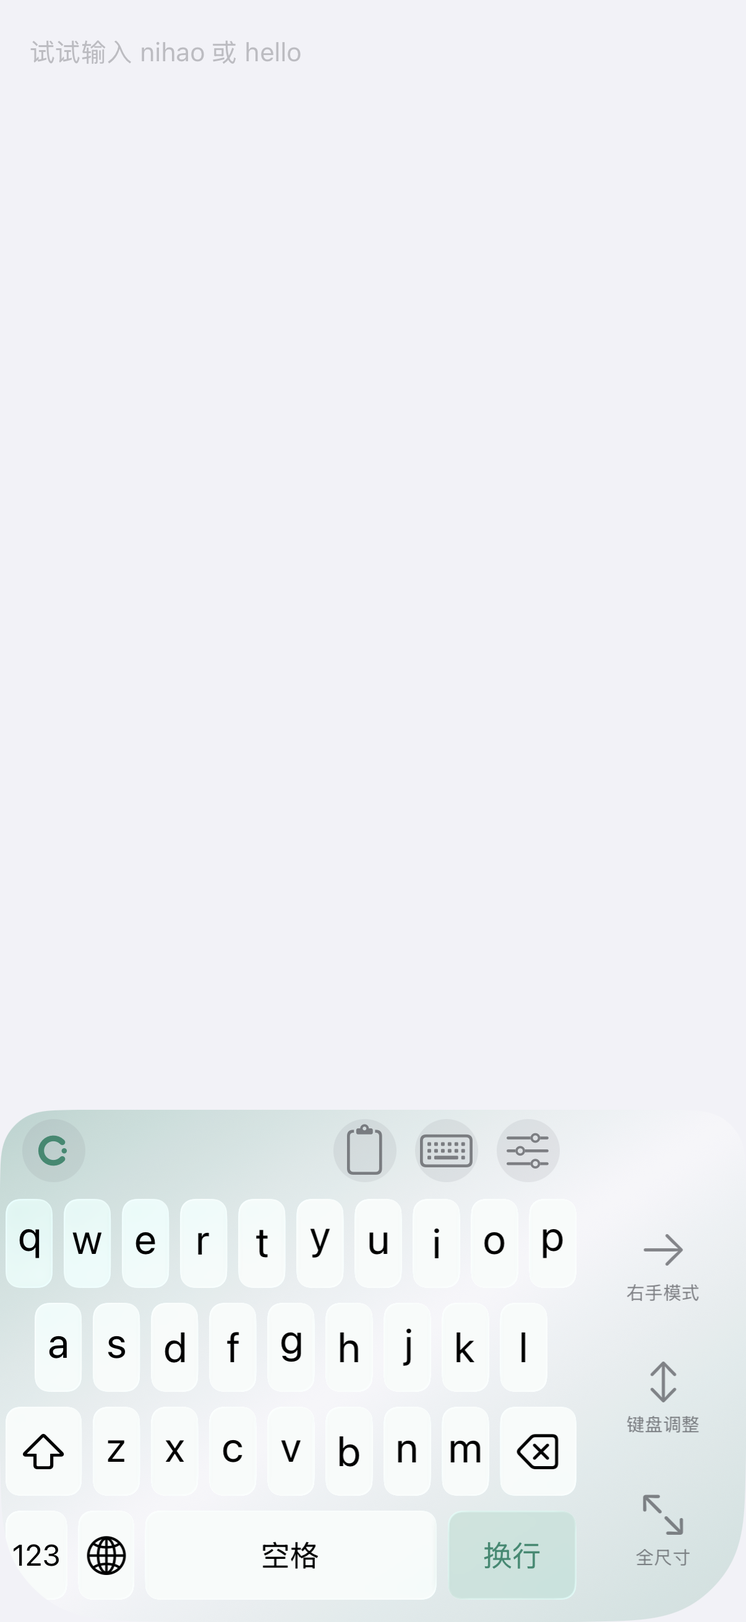
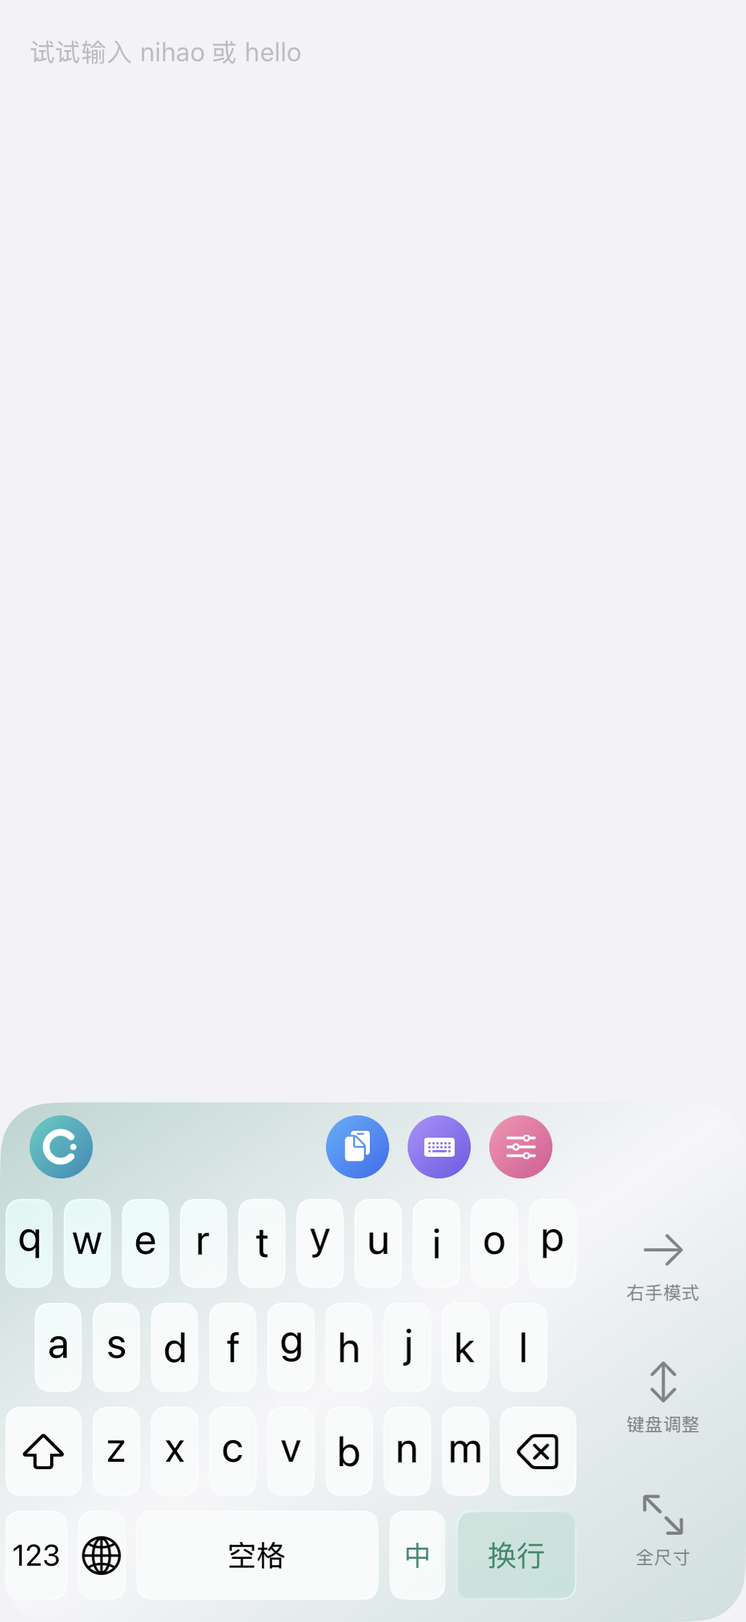
Document verified 0.1.3 IPA, marked pinyin, clipboard retention and native screenshots [skip ci]

diff --git a/Design/preview.html b/Design/preview.html
@@ -8,7 +8,7 @@
 *{box-sizing:border-box}body{margin:0;color:var(--ink);background:#f3f5f0;background-image:radial-gradient(ellipse at 78% 34%,#d4e8dd80,transparent 45%)}button,input,select{font:inherit}button{cursor:pointer;-webkit-tap-highlight-color:transparent}button:focus-visible,input:focus-visible{outline:2px solid var(--accent);outline-offset:3px}button{color:inherit}main{max-width:1140px;margin:auto;padding:62px 35px;display:grid;grid-template-columns:1fr 420px;gap:90px;align-items:center;min-height:100vh}.brand{display:flex;gap:12px;align-items:center}.brand img{width:42px;height:42px;border-radius:12px}.wordmark{font-size:27px;font-weight:600}.wordmark small{font-size:10px;letter-spacing:4px;margin-left:12px;color:var(--muted)}.eyebrow{font-size:11px;letter-spacing:3px;color:var(--accent);margin:48px 0 16px}.intro h1{font-weight:500;font-size:52px;line-height:1.26;letter-spacing:-2px;margin:0 0 20px}.intro>p{color:var(--muted);font-size:15px;line-height:1.9;max-width:400px}.custom{margin-top:34px;background:#ffffffb5;border:1px solid #ffffffd0;border-radius:22px;padding:24px;max-width:420px;box-shadow:0 12px 35px #345b4407}.section-head{display:flex;align-items:center;justify-content:space-between;margin-bottom:22px}.section-head strong{font-size:14px;font-weight:600}.section-head span{font-size:10px;color:var(--muted);letter-spacing:1px}.label{display:flex;align-items:center;justify-content:space-between;font-size:12px;margin:18px 0 10px}.label output{font-variant-numeric:tabular-nums;color:var(--muted)}.segments{display:flex;gap:3px;background:#e9eee8;border-radius:10px;padding:4px}.segments button{flex:1;border:0;background:none;border-radius:7px;padding:9px 7px;font-size:12px;color:#758178}.segments button[aria-pressed=true]{background:white;color:var(--ink);box-shadow:0 2px 6px #253e3410}.swatches{display:flex;gap:16px}.swatch{border:3px solid transparent;background:none;padding:3px;border-radius:50%;width:32px;height:32px;background-clip:content-box}.swatch[aria-pressed=true]{border-color:var(--accent)}input[type=range]{width:100%;accent-color:var(--accent);height:18px}.control-note{margin:20px 0 0;color:#8b978f;font-size:11px;line-height:1.8}.footer-note{font-size:10px;color:#8b978f;line-height:1.9;margin-top:23px;letter-spacing:.2px}.phone-wrap{position:relative}.phone{width:390px;border:7px solid #26352e;border-radius:49px;background:#f9fbf7;box-shadow:0 35px 70px #23453720,0 0 0 1px #3a4a4240;overflow:hidden}.screen{position:relative;height:804px;background:linear-gradient(145deg,#e7f1e6 0%,#fbfcf8 36%,#f1f6ef 100%);overflow:hidden}.status{height:45px;display:flex;align-items:center;justify-content:space-between;padding:0 27px;font-size:12px;font-weight:600}.island{position:absolute;top:10px;left:50%;transform:translateX(-50%);width:98px;height:25px;border-radius:20px;background:#23352d}.status .icons{font-size:11px;letter-spacing:1px}.phone-content{padding:13px 17px 0}.app-header{display:flex;align-items:center;justify-content:space-between;margin-bottom:24px}.app-brand{display:flex;align-items:center;font-size:23px;font-weight:600;gap:7px}.drop{color:var(--accent);font-size:24px}.app-brand small{font-size:9px;letter-spacing:2px;color:#89978e;margin-left:4px;font-weight:500}.offline{font-size:9px;padding:7px 10px;border:1px solid #fff;border-radius:30px;background:#ffffff65;color:#60766a}.phone h2{font-size:30px;line-height:1.35;font-weight:600;letter-spacing:-.8px;margin:0 0 9px}.tagline{font-size:11px;color:#839087;margin:0 0 20px}.preview-label{display:flex;justify-content:space-between;font-size:10px;margin-bottom:10px}.preview-label span{color:#9aa59d;font-size:9px}.typing{border:1px solid #dde6dc;border-radius:20px;overflow:hidden;background:#ffffff80;box-shadow:0 10px 20px #2b624007}.typed{height:100px;padding:15px 15px 5px;position:relative}.typed textarea{width:100%;height:76px;resize:none;border:0;outline:0;background:none;color:var(--ink);font-size:16px;line-height:1.6;font-family:inherit}.keyboard{position:relative;background:linear-gradient(140deg,rgba(var(--rgb),.15),#edf4eccc 46%,rgba(var(--rgb),.10));padding:0 3px 7px;isolation:isolate}.keyboard:before{position:absolute;inset:0;content:"";background:rgba(255,255,255,calc(var(--opacity)*.45));backdrop-filter:blur(var(--glass));z-index:-1}.toolbar{display:flex;justify-content:space-around;align-items:center;height:36px;padding:0 7px}.tool{font-size:16px;border:0;background:none;padding:5px 10px;min-width:39px;min-height:32px;color:#587568}.tool.lang{font-size:10px;font-weight:600;color:var(--accent)}.spelling{display:none;font-family:ui-monospace,monospace;font-size:13px;letter-spacing:1px;flex:1;padding-left:12px}.clear-spelling{display:none;border:0;background:none;font-size:18px;color:#8ba092}.keyboard.composing .toolbar .tool{display:none}.keyboard.composing .spelling,.keyboard.composing .clear-spelling{display:block}.candidates{display:flex;gap:22px;height:35px;overflow:auto;align-items:center;padding:0 12px;scrollbar-width:none;white-space:nowrap}.candidate{border:0;background:none;padding:5px 0;font-size:16px;color:#334c40}.candidate:first-child{color:var(--accent);font-weight:600}.candidate-hint{font-size:9px;text-align:center;flex:1;color:#879a8c;letter-spacing:.5px}.key-area{position:relative}.key-grid{width:100%;transition:width .18s ease,margin .18s ease}.key-grid.left{width:82%;margin-right:auto}.key-grid.right{width:82%;margin-left:auto}.key-row{display:flex;width:100%;height:calc(var(--key-height) + 6px)}.key-row.inset{padding:0 5%}.key{font-family:inherit;flex:1;border:0;padding:0;background:transparent;position:relative;touch-action:manipulation;min-width:0}.key span{position:absolute;inset:3px 2.5px 4px;background:rgba(255,255,255,calc(.30 + var(--opacity)*.40));border:1px solid #ffffff7a;border-radius:6px;box-shadow:0 1px 1px #3c624c25;display:flex;align-items:center;justify-content:center;font-size:20px;color:#283c30}.key.utility span{background:#aebfb255;font-size:17px;border-color:#ecf3eb70;box-shadow:0 1px 1px #3c624c18}.key.small span{font-size:12px}.key.enter span{background:rgba(var(--rgb),.15);color:var(--accent);font-size:12px}.key:active span,.key.active span{background:rgba(var(--rgb),.22);box-shadow:none}.restore{display:none;position:absolute;top:0;height:100%;width:18%;border:0;background:transparent;color:#7f9c8c;font-size:18px}.restore.right{left:0;display:block}.restore.left{right:0;display:block}.enable{width:100%;border:0;border-radius:14px;background:var(--accent);padding:15px 16px;margin-top:18px;color:white;font-size:12px;display:flex;justify-content:space-between}.mini-note{text-align:center;font-size:9px;color:#8c9c91;margin:14px 0}.tabs{height:64px;position:absolute;bottom:16px;left:12px;right:12px;background:#ffffffc9;border:1px solid #fff;border-radius:30px;display:flex;justify-content:space-around;padding:9px 15px;backdrop-filter:blur(18px);box-shadow:0 3px 15px #2a50340c}.tab{display:flex;gap:3px;flex-direction:column;align-items:center;justify-content:center;border:0;background:none;font-size:8px;min-width:65px;color:#99a59b}.tab b{font-size:17px;line-height:1;font-weight:400}.tab[aria-selected=true]{color:var(--accent);background:rgba(var(--rgb),.07);border-radius:20px}.home-bar{position:absolute;bottom:5px;left:50%;transform:translateX(-50%);height:4px;width:112px;border-radius:8px;background:#2c3f34}.phone-caption{font-size:10px;text-align:center;color:#8c9a90;letter-spacing:1px;margin-top:17px}.panel{position:absolute;inset:0 3px 3px;border-radius:14px;background:#f2f6efeF;z-index:3;padding:12px;display:none;backdrop-filter:blur(15px);overflow:auto}.panel.open{display:block}.panel-header{display:flex;align-items:center;justify-content:space-between;margin-bottom:15px;font-size:13px}.panel-header button{border:0;background:none;font-size:11px;color:var(--accent)}.panel p{font-size:11px;line-height:1.8;color:#829086}.emoji-row{display:flex;justify-content:space-between;margin:10px 0}.emoji-row button{border:0;background:none;font-size:23px;padding:3px}.clip{background:#fff9;border:1px solid white;border-radius:10px;padding:13px;font-size:12px;margin-bottom:8px;width:100%;text-align:left}.app-page{display:none;position:absolute;inset:45px 0 96px;padding:23px;background:linear-gradient(145deg,#e9f2e5,#f7faf4);overflow:auto}.app-page.visible{display:block}.app-page h3{font-size:27px;font-weight:600;margin:10px 0 20px}.setting-group{background:#fff9;border-radius:18px;margin-bottom:18px;padding:16px;font-size:12px;line-height:1.6}.setting-group strong{font-weight:600;display:block;margin-bottom:8px}.setting-row{display:flex;justify-content:space-between;padding:11px 0;border-bottom:1px solid #dbe5d950;gap:12px}.setting-row:last-child{border:0}.setting-row span:last-child{color:#849589}.toast{position:absolute;top:58px;left:20px;right:20px;padding:12px 14px;border:1px solid #ffffffc0;border-radius:14px;background:#f7fcf4ec;color:#48745e;box-shadow:0 8px 30px #203f3217;font-size:11px;line-height:1.8;z-index:20;display:none}.toast.visible{display:block}.keyboard.solid{--glass:0px;background:#e4ebe0}.keyboard.solid .key span{background:#fafcf7}.keyboard.mist{--glass:30px}.intro-head{display:flex;gap:8px}.badge{font-size:10px;border:1px solid #cfddd0;border-radius:20px;padding:5px 9px;color:#78937f}.design-note{font-size:10px;color:#99a69b;margin-top:14px}.full-dim{position:absolute;inset:0;z-index:5;background:#162e2140;display:none}.setup-sheet{position:absolute;bottom:0;left:0;right:0;padding:24px 22px 38px;border-radius:25px 25px 0 0;background:#f6faf2;transform:translateY(110%);transition:transform .22s ease;z-index:6}.setup-sheet.open{transform:translateY(0)}.setup-sheet h3{font-size:20px;font-weight:600;margin:5px 0 18px}.setup-sheet p{font-size:12px;line-height:1.9;color:#758a79}.setup-sheet button{width:100%;border:0;border-radius:12px;background:var(--accent);color:white;padding:13px;font-size:12px;margin-top:12px}@media(max-width:900px){main{grid-template-columns:1fr;gap:40px;padding:30px 20px}.intro{max-width:420px;margin:auto}.intro h1{font-size:38px}.phone-wrap{grid-row:1;margin:auto}.intro .eyebrow{margin-top:25px}.custom{margin-top:22px}}@media(max-width:430px){.phone{width:calc(100vw - 28px);border-width:5px}.screen{height:804px}.phone h2{font-size:29px}main{padding:20px 8px}.intro{padding:10px 16px}.key span{font-size:18px}}
 @media(prefers-reduced-motion:reduce){*{transition:none!important}}
 </style>
-<link rel="stylesheet" href="glass.css?v=0.1.2">
+<link rel="stylesheet" href="glass.css?v=0.1.3">
 </head>
 <body>
 <main>
@@ -44,11 +44,11 @@
    <button class="enable" id="enable">启用澈输入法 <span><svg viewBox="0 0 24 24" fill="none" stroke="currentColor" stroke-width="1.6" stroke-linecap="round" stroke-linejoin="round" aria-hidden="true" focusable="false"><path d="M6 18 18 6M7 6h11v11"/></svg></span></button><div class="home-links"><button onclick="document.querySelector('[data-tab=custom]').click()">外观与工具栏</button><button onclick="document.querySelector('[data-tab=input]').click()">输入偏好</button></div>
   </div>
   <div class="app-page" id="custom-page"><h3>定制</h3><div class="setting-group"><strong>你的清透，自有分寸。</strong><span>外观改变，熟悉的按键位置不变。</span></div><div class="setting-group"><strong>玻璃材质</strong><div class="setting-row"><span>材质</span><span id="phone-glass">清透</span></div><div class="setting-row"><span>色调</span><span id="phone-accent">青瓷</span></div><div class="setting-row"><span>键盘布局</span><span>iOS 系统式</span></div></div><div class="setting-group"><strong>工具栏</strong><div class="setting-row"><span>中 / EN</span><span>☰</span></div><div class="setting-row"><span>剪贴板</span><span>☰</span></div><div class="setting-row"><span>表情</span><span>☰</span></div><div class="setting-row"><span>单手</span><span>☰</span></div><div class="setting-row"><span>外观</span><span>☰</span></div></div><p class="design-note">使用左侧控制实时预览。原生 App 支持工具栏排序和隐藏。</p></div>
-  <div class="app-page" id="input-page"><h3>输入</h3><div class="setting-group"><strong>离线输入</strong><div class="setting-row"><span>中文拼音</span><span>全拼 / 简拼</span></div><div class="setting-row"><span>英文</span><span>前缀补全</span></div><div class="setting-row"><span>模糊拼音</span><span>8 组可选</span></div></div><div class="setting-group"><strong>只留你主动保存的内容</strong><div class="setting-row"><span>剪贴板保留</span><span>1 小时</span></div><div class="setting-row"><span>选词学习</span><span>默认关闭</span></div><div class="setting-row"><span>网络请求</span><span>无</span></div></div><div class="setting-group"><strong>回车跟随当前 App</strong><span>有拼音时先确认候选，再向 App 发送回车字符。是否发送消息由宿主决定。</span></div></div>
+  <div class="app-page" id="input-page"><h3>输入</h3><div class="setting-group"><strong>离线输入</strong><div class="setting-row"><span>中文拼音</span><span>全拼 / 简拼</span></div><div class="setting-row"><span>英文</span><span>前缀补全</span></div><div class="setting-row"><span>模糊拼音</span><span>8 组可选</span></div></div><div class="setting-group"><strong>剪贴板自动收录</strong><div class="setting-row"><span>自动保存复制的文字</span><input id="auto-clipboard" type="checkbox" checked aria-label="自动保存复制的文字"></div><div class="setting-row"><span>未固定内容保留</span><select id="clip-lifetime" aria-label="剪贴板保留时间"><option value="168">7 天</option><option value="24">1 天</option><option value="720">30 天</option><option value="0">永久</option></select></div><div class="setting-row"><span>选词学习</span><span>默认关闭</span></div><div class="setting-row"><span>网络请求</span><span>无</span></div></div><div class="setting-group"><strong>回车跟随当前 App</strong><span>有拼音时先确认候选，再向 App 发送回车字符。是否发送消息由宿主决定。</span></div></div>
   <div class="tabs" role="tablist"><button class="tab" data-tab="home" role="tab" aria-selected="true"><b><svg viewBox="0 0 24 24" fill="none" stroke="currentColor" stroke-width="1.6" stroke-linecap="round" stroke-linejoin="round" aria-hidden="true" focusable="false"><path d="M12 2.5c-2.5 4-7 7.8-7 12a7 7 0 0 0 14 0c0-4.2-4.5-8-7-12Z"/><path d="M8.5 14.8a3.8 3.8 0 0 0 3.5 3.8"/></svg></b>澈</button><button class="tab" data-tab="custom" role="tab" aria-selected="false"><b><svg viewBox="0 0 24 24" fill="none" stroke="currentColor" stroke-width="1.6" stroke-linecap="round" stroke-linejoin="round" aria-hidden="true" focusable="false"><path d="M3 6h4m4 0h10M3 12h10m4 0h4M3 18h4m4 0h10"/><circle cx="9" cy="6" r="2"/><circle cx="15" cy="12" r="2"/><circle cx="9" cy="18" r="2"/></svg></b>定制</button><button class="tab" data-tab="input" role="tab" aria-selected="false"><b><svg viewBox="0 0 24 24" fill="none" stroke="currentColor" stroke-width="1.6" stroke-linecap="round" stroke-linejoin="round" aria-hidden="true" focusable="false"><rect x="2" y="5" width="20" height="14" rx="3"/><path d="M6 9h.01M10 9h.01M14 9h.01M18 9h.01M6 12h.01M10 12h.01M14 12h.01M18 12h.01M8 16h8"/></svg></b>输入</button></div><div class="home-bar"></div>
   <div class="toast" id="toast" role="status"></div><div class="full-dim" id="dim"></div><div class="setup-sheet" id="setup"><h3>让澈成为你的键盘</h3><p>1. 打开「设置 → 通用 → 键盘 → 键盘」<br>2. 添加新键盘 → 澈<br>3. 长按地球键，切换到澈</p><p>剪贴板与设置同步可选开启完全访问。<br>此处是设计预览，需要先安装原生 App。</p><button id="setup-done">知道了</button></div>
  </div></div><div class="phone-caption">CLEAR KEYBOARD / 交互设计预览</div>
 </section>
 </main>
-<script src="preview.js?v=0.1.2"></script>
+<script src="preview.js?v=0.1.3"></script>
 </body></html>

diff --git a/Design/preview.js b/Design/preview.js
@@ -6,7 +6,7 @@ const panel = document.getElementById('panel');
 let page = 'letters', language = 'zh', shift = false, caps = false, lastShift = 0;
 let composition = '', hand = 'full', currentCandidates = [], panelType = '', clips = [];
 let pinnedTools = ['clipboard','emoji','appearance'];
-let handWidth = .78, toolbarHold = null;
+let handWidth = .78, toolbarHold = null, compositionStart = -1;
 
 const paths = {
   shift: '<path d="M12 3 3 12h5v8h8v-8h5L12 3Z"/>',
@@ -45,6 +45,16 @@ function insert(text) {
   editor.value = editor.value.slice(0,start) + text + editor.value.slice(end);
   editor.setSelectionRange(start + text.length, start + text.length);
 }
+function markPinyin(next) {
+  if (compositionStart < 0) compositionStart = editor.selectionStart;
+  editor.setSelectionRange(compositionStart, compositionStart + composition.length);
+  insert(next); composition = next;
+  if (!next) compositionStart = -1;
+}
+function replacePinyin(text) {
+  if (compositionStart >= 0) editor.setSelectionRange(compositionStart, compositionStart + composition.length);
+  insert(text); composition = ''; compositionStart = -1;
+}
 function getCandidates() {
   if (language === 'zh') {
     if (!composition) return [];
@@ -55,7 +65,7 @@ function getCandidates() {
   return word ? englishWords.filter(value => value.startsWith(word.toLowerCase()) && value !== word.toLowerCase()).slice(0,6) : [];
 }
 function renderCandidates() {
-  currentCandidates = getCandidates(); keyboard.classList.toggle('composing', !!composition);
+  currentCandidates = getCandidates(); keyboard.classList.toggle('composing', spaceGesture.active || !!composition || currentCandidates.length > 0);
   document.getElementById('spelling').textContent = composition;
   const container = document.getElementById('candidates'); container.replaceChildren();
   container.classList.toggle('visible', spaceGesture.active || !!composition || currentCandidates.length > 0);
@@ -70,7 +80,7 @@ function renderCandidates() {
   });
 }
 function choose(text) {
-  if (language === 'zh') { insert(text); composition = ''; }
+  if (language === 'zh') { replacePinyin(text); }
   else {
     const word = editor.value.slice(0,editor.selectionStart).match(/[a-zA-Z]+$/)?.[0] || '';
     editor.setSelectionRange(editor.selectionStart - word.length, editor.selectionStart);
@@ -78,7 +88,7 @@ function choose(text) {
   }
   renderCandidates(); renderKeys();
 }
-function commit() { if (composition) { insert(currentCandidates[0] || composition); composition = ''; } }
+function commit() { if (composition) replacePinyin(currentCandidates[0] || composition); }
 function key(label, action = label, units = 1, utility = false) { return {label,action,units,utility}; }
 function rows() {
   let result;
@@ -90,7 +100,7 @@ function rows() {
       (page === 'numbers' ? ['-','/',':',';','(',')','$','&','@','"'] : ['_','\\','|','~','<','>','€','£','¥','•']).map(char => key(char)),
       [key(page === 'numbers' ? '#+=' : '123',page === 'numbers' ? 'symbols' : 'numbers',1.5,true),...['.',',','?','!',"'"].map(char => key(char,char,1.4)),key('删除','delete',1.5,true)]];
   }
-  return [...result,[key(page === 'letters' ? '123' : 'ABC',page === 'letters' ? 'numbers' : 'letters',1.25,true),key('切换语言','globe',1.15,true),key(language === 'zh' ? '空格' : 'space','space',5.2),key(composition ? '确认' : '换行','enter',2.4,true)]];
+  return [...result,[key(page === 'letters' ? '123' : 'ABC',page === 'letters' ? 'numbers' : 'letters',1.25,true),key('下一个键盘','globe',1,true),key(language === 'zh' ? '空格' : 'space','space',4.35),key(language === 'zh' ? '中' : 'EN','language',1.15,true),key(composition ? '确认' : '换行','enter',2.25,true)]];
 }
 
 const metricsContext = document.createElement('canvas').getContext('2d',{willReadFrequently:true});
@@ -133,7 +143,7 @@ function renderKeys() {
       const graphic = ['shift','delete','globe'].includes(item.action);
       button.className = 'key' + (item.utility ? ' utility' : '') + (!graphic && item.label.length > 1 ? ' small' : '') + (item.action === 'enter' ? ' enter' : '') + (item.action === 'shift' && shift ? ' active' : '');
       button.style.flex = item.units; button.dataset.action = item.action;
-      button.setAttribute('aria-label',({shift:'Shift',delete:'删除',globe:'切换语言',space:'空格，按住并滑动以移动光标',enter:'回车'})[item.action] || item.label);
+      button.setAttribute('aria-label',({shift:'Shift',delete:'删除',globe:'下一个键盘',language:'切换中文和英文',space:'空格，按住并滑动以移动光标',enter:'回车'})[item.action] || item.label);
       const face = document.createElement('span'); face.className = 'key-face';
       if (graphic) face.innerHTML = icon(item.action === 'shift' && caps ? 'capslock' : item.action);
       else {
@@ -167,16 +177,17 @@ function press(action) {
   if (action === 'shift') { const now = Date.now(); caps = now - lastShift < 300; shift = caps ? true : !shift; lastShift = now; }
   else if (['letters','numbers','symbols'].includes(action)) page = action;
   else if (action === 'delete') {
-    if (composition) composition = composition.slice(0,-1);
+    if (composition) markPinyin(composition.slice(0,-1));
     else if (editor.selectionStart !== editor.selectionEnd) insert('');
     else if (editor.selectionStart) {
       const bounds = graphemeBoundaries(editor.value), pos = editor.selectionStart;
       const previous = bounds.filter(value => value < pos).pop() ?? 0;
       editor.setSelectionRange(previous,pos); insert('');
     }
-  } else if (action === 'globe') switchLanguage();
+  } else if (action === 'language') switchLanguage();
+  else if (action === 'globe') toast('原生版本：切换系统键盘');
   else if (action === 'space' || action === 'enter') { if (composition) commit(); else insert(action === 'space' ? ' ' : '\n'); }
-  else if (language === 'zh' && page === 'letters' && !shift && /^[a-z]$/.test(action)) composition += action;
+  else if (language === 'zh' && page === 'letters' && !shift && /^[a-z]$/.test(action)) markPinyin(composition + action);
   else {
     commit(); const punctuation = {',':'，','.':'。','?':'？','!':'！'};
     insert(shift && page === 'letters' ? action.toUpperCase() : language === 'zh' ? (punctuation[action] || action) : action);
@@ -295,7 +306,8 @@ function openPanel(type, refresh = false) {
     const names = type === 'tools' ? ['language','clipboard','emoji','onehand','appearance','toolbar'] : ['clipboard','emoji','onehand','appearance'];
     names.forEach(name => {
       const button = document.createElement('button');
-      button.innerHTML = icon(name === 'onehand' || name === 'language' ? 'keyboard' : name === 'toolbar' ? 'appearance' : name);
+      button.dataset.color = name;
+      button.innerHTML = '<i class="color-icon">' + icon(name === 'onehand' || name === 'language' ? 'keyboard' : name === 'toolbar' ? 'appearance' : name) + '</i>';
       const label = document.createElement('span'); label.textContent = (type === 'toolbar' ? (pinnedTools.includes(name) ? '− ' : '+ ') : '') + toolLabels[name]; button.append(label);
       button.onclick = () => {
         if (type === 'toolbar') {
@@ -319,7 +331,7 @@ function openPanel(type, refresh = false) {
     const add = document.createElement('button'); add.className = 'clip'; add.textContent = '＋ 添加示例内容';
     add.onclick = () => { clips.unshift('为你留一份灵感。'); panelType = ''; openPanel('clipboard'); }; panel.append(add);
     clips.forEach(text => { const button = document.createElement('button'); button.className = 'clip'; button.textContent = text; button.onclick = () => { commit(); insert(text); closePanel(); renderCandidates(); }; panel.append(button); });
-    note.textContent = '预览只保存示例。原生版本由用户主动读取系统剪贴板。';
+    note.textContent = '预览只保存示例。原生版自动收录复制的文字，可设保留 7 天或永久。';
   } else if (type === 'onehand') {
     const segment = document.createElement('div'); segment.className = 'segments';
     [['full','标准'],['left','左手'],['right','右手']].forEach(([value,label]) => { const button = document.createElement('button'); button.textContent = label; button.setAttribute('aria-pressed',String(value === hand)); button.onclick = () => { setHand(value); closePanel(); }; segment.append(button); }); panel.append(segment);
@@ -373,7 +385,7 @@ function installRefraction() {
   document.body.append(svg);
 }
 document.querySelector('.drop').innerHTML = icon('brand');
-document.querySelector('.clear-spelling').innerHTML = icon('close'); document.querySelector('.clear-spelling').onclick = () => { composition = ''; renderCandidates(); renderKeys(); };
+document.querySelector('.clear-spelling').innerHTML = icon('close'); document.querySelector('.clear-spelling').onclick = () => { markPinyin(''); renderCandidates(); renderKeys(); };
 document.querySelector('.enable span').innerHTML = icon('arrow');
 document.querySelectorAll('[data-tab]').forEach(button => {
   button.querySelector('b').innerHTML = icon(({home:'brand',custom:'appearance',input:'keyboard'})[button.dataset.tab]);
@@ -392,7 +404,7 @@ document.getElementById('opacity').oninput = event => {
 document.getElementById('enable').onclick = () => { document.getElementById('setup').classList.add('open'); document.getElementById('dim').style.display = 'block'; };
 function closeSetup() { document.getElementById('setup').classList.remove('open'); document.getElementById('dim').style.display = 'none'; }
 document.getElementById('setup-done').onclick = closeSetup; document.getElementById('dim').onclick = closeSetup;
-editor.addEventListener('input',() => { composition = ''; renderCandidates(); });
+editor.addEventListener('input',() => { composition = ''; compositionStart = -1; renderCandidates(); });
 window.addEventListener('resize',() => requestAnimationFrame(alignKeyLegends));
 document.fonts.ready.then(alignKeyLegends);
 installRefraction(); editor.setSelectionRange(editor.value.length,editor.value.length); renderToolbar(); renderKeys(); renderCandidates();

diff --git a/Design/glass.css b/Design/glass.css
@@ -53,3 +53,22 @@
 @media(max-width:430px){.phone h2{font-size:22px}.tool{width:31px;min-width:31px;height:31px;min-height:31px}.toolbar-tools{gap:8px}.restore button{font-size:8px}}
 .key-grid,.toolbar{transition:none}
 .screen{overflow:clip}
+
+/* v0.1.3: colorful native-style tool tiles; candidates replace the toolbar. */
+.keyboard{position:relative;padding-top:48px;corner-shape:superellipse;border-radius:28px}
+.toolbar{position:absolute;top:0;left:0;right:0;height:48px;padding:0 12px}
+.toolbar-tools{height:48px}.spelling,.clear-spelling{display:none!important}
+.candidates{position:absolute;top:0;left:0;right:0;padding:0 16px;align-items:center}
+.candidates.visible{height:48px}.candidate{height:34px;border-radius:10px;font-size:17px;padding:0 9px}
+.candidate:first-child{background:rgba(var(--rgb),.12)}
+.tool{color:#fff!important;border-radius:11px;padding:7px;background:linear-gradient(140deg,#40cfc2,#218ab9)}
+.tool svg{width:19px;height:19px}.tool.brand-tool svg{width:23px;height:23px}
+.tool[data-tool=clipboard],.color-icon{background:linear-gradient(140deg,#50b0ff,#316eed)}
+.tool[data-tool=emoji],[data-color=emoji] .color-icon{background:linear-gradient(140deg,#ffc744,#ff7d29)}
+.tool[data-tool=onehand],[data-color=onehand] .color-icon{background:linear-gradient(140deg,#ad91ff,#7059e6)}
+.tool[data-tool=appearance],[data-color=appearance] .color-icon,[data-color=toolbar] .color-icon{background:linear-gradient(140deg,#ff92b0,#db5797)}
+[data-color=language] .color-icon{background:linear-gradient(140deg,#40cfc2,#218ab9)}
+.color-icon{display:flex;align-items:center;justify-content:center;width:32px;height:32px;border-radius:10px;color:#fff}
+.color-icon svg{width:20px;height:20px}.toolbox-grid button{min-height:72px;background:#57695e0c;border-radius:16px}
+.key[data-action=language] .key-face{font-size:14px;color:var(--ink-accent)}
+.setting-row select{border:0;color:var(--ink-accent);background:transparent;font-size:12px}

diff --git a/README.md b/README.md
@@ -1,16 +1,16 @@
 # 澈 · ClearKeyboard
 
-面向中文和英文的原生 iPhone 输入法，当前版本 **0.1.2 开发预览**。包含 SwiftUI 设置 App、UIKit 系统键盘扩展、离线词库和交互设计预览。
+面向中文和英文的原生 iPhone 输入法，当前版本 **0.1.3 开发预览**。包含 SwiftUI 设置 App、UIKit 系统键盘扩展、离线词库和交互设计预览。
 
-**已生成未签名 IPA。** [GitHub 云构建](https://github.com/gby2416341129-star/ClearKeyboard/actions/runs/38997390063) 使用 Xcode 26.6 / iPhoneOS 26.5，主 App 和键盘扩展均通过 Release arm64 真机目标编译，33 个 Swift 核心测试全部通过。8 项原生运行测试全部通过，并已检查浅色、深色、单手和候选截图。安装前仍需签名；具体记录见 `Validation/native-build.json`，iPhone 真机切换、性能与耗电仍待验证。
+**已生成未签名 IPA。** [GitHub 云构建](https://github.com/gby2416341129-star/ClearKeyboard/actions/runs/39010537002) 使用 Xcode 26.6 / iPhoneOS 26.5，主 App 和键盘扩展均通过 Release arm64 真机目标编译，36 个 Swift 核心测试全部通过。11 项原生运行测试全部通过，并已检查浅色、深色、单手和候选截图。安装前仍需签名；具体记录见 `Validation/native-build.json`，iPhone 真机切换、性能与耗电仍待验证。
 
 IPA 打包入口已提供：参见 [BUILD-IPA.md](BUILD-IPA.md)。可推送至 GitHub 的 `main` 分支自动构建、手动运行工作流，或在 Mac 执行 `bash Scripts/build-ipa.sh`；只有真机编译通过后才会生成包含键盘扩展的未签名 IPA，安装前仍需签名。
 
 ## 布局与设计
 
-字母采用 iOS 系统式 QWERTY：第一排 10 键、第二排 9 键并左右缩进、第三排 Shift / Z–M / 删除。数字和符号保持系统式页序、位置关系，底排为 123 / 地球 / 空格 / 回车。
+字母采用 iOS 系统式 QWERTY：第一排 10 键、第二排 9 键并左右缩进、第三排 Shift / Z–M / 删除。数字和符号保持系统式页序、位置关系，底排保留 123 / 地球 / 空格 / 回车，并在空格右侧增加常驻中 / EN 切换键。
 
-按键的字符顺序不开放重排，以遵循最新确认的系统布局要求。可自定义按键高度、任意 RGB 颜色、玻璃遮罩浓度、工具栏顺序与显隐、左右单手宽度。四个角采用连续曲线裁切；iOS 26 通过公开的容器同心圆角 API 适配，较早系统使用连续圆角回退。
+按键的字符顺序不开放重排，以遵循最新确认的系统布局要求。可自定义按键高度、任意 RGB 颜色、玻璃遮罩浓度、工具栏顺序与显隐、左右单手宽度。四个角采用 28 pt 连续圆角，iOS 26 明确使用固定圆角，不继承宿主可能过大的容器曲率。四排按键按实际可用高度排布，避免较矮宿主区域裁掉底排。
 
 - `Design/preview.html`：可直接在浏览器打开；不需要安装依赖或联网。
 - `Design/preview-desktop.png` / `preview-phone.png`：已检查的设计预览。
@@ -19,13 +19,15 @@ IPA 打包入口已提供：参见 [BUILD-IPA.md](BUILD-IPA.md)。可推送至 G
 
 ## 本次界面与交互修正
 
-0.1.2 移除了键盘闲置时的状态说明行，改为左侧品牌入口、右侧三个快捷工具；点品牌打开工具网格，长按快捷工具可增删和拖动排序。工具栏与按键一起靠左或靠右，另一侧提供换手、尺寸调整和恢复全尺寸。主 App 使用新的 C 形标志、紧凑标题和安全区布局。
+0.1.3 工具栏和工具面板使用缓存的彩色渐变图标，原生图形由 SF Symbols 绘制。中 / EN 键常驻空格旁，所有单手模式都能直接切换。左侧品牌入口与右侧三个快捷工具保留；长按快捷工具可增删和拖动排序，左右单手模式共用定制设置。
 
-体验区的普通 SwiftUI 刷新会保留键盘当前语言；选区的重复通知不会清空拼音。候选栏按内容测量宽度，外部文本编辑事件也进入相同输入引擎。首次键盘布局为零尺寸时，按键底板会保持有限、非负的尺寸。键盘尚未连接宿主时，空的文档 ID 不再触发 Swift UUID 转换崩溃。
+中文拼音通过公开 `UITextDocumentProxy.setMarkedText` 显示在宿主输入框中，候选词在键盘顶部显示；候选栏占用原工具栏位置，输入时不再额外增加键盘高度。选词替换拼音，删除会更新标记；部分选词后仍保留剩余拼音。App 内体验区使用同样的模型和真实 UITextView 标记文本接口。模拟器已验证选区替换、组合 Emoji 周围编辑、候选上屏和一键语言切换；微信等第三方 App 的跨进程标记行为仍需本次新包真机复测。
 
-按键字符改为按可见字形轮廓居中；预览通过 116 个字形的截图像素检查，四种状态覆盖小写、大写、数字和符号。工具栏、地球、Shift、删除和底部导航均采用统一线条图标，原生使用 SF Symbols。
+四角改为固定连续圆角，避免宿主的超大容器圆角裁掉工具栏。按键布局使用实际高度，较矮区域不再让底排超出视图；原生测试覆盖 180–280 pt、左右单手和大圆角父容器。尚未连接宿主时，通过公开 Objective-C getter 读取可为空的文档 ID，保留了前一版的启动崩溃修正。
 
-预览的玻璃使用 SVG 位移图对背景采样折射，并保留边缘反射和按压高光；这不是 iOS 原生材质的截图。原生代码采用独立玻璃按键和共享玻璃容器，已通过 Xcode 编译，仍待真机视觉与交互检查。
+剪贴板默认自动收录，默认保留 7 天；可选择 15 分钟、1 小时、1 天、7 天、30 天或永久，也可关闭。使用复制变更通知和界面激活时的检查，没有轮询计时器。固定内容不按时间删除；永久选项只取消时间过期，仍有 200 条容量上限。需要扩展完全访问及系统粘贴许可；不绕过系统提示，App 与键盘都不活动期间只能在下次激活时读取当前内容，不能恢复其间每一次复制。到期内容在下次访问时清理。
+
+按键字符按可见字形轮廓居中，Shift、删除和地球键使用 SF Symbols。HTML 预览通过 SVG 位移图模拟背景采样折射；原生 iOS 26 使用独立玻璃按键与共享玻璃容器。两者视觉实现分别检查，不把网页截图当作原生证据。
 
 按住空格约 350 ms 后进入光标移动模式，隐藏按键字符并显示手势提示；横向移动按字素推进光标，松手或中断不追加空格。预览已验证鼠标、触屏、越出空格范围、文本边界和组合 Emoji。
 
@@ -37,15 +39,15 @@ IPA 打包入口已提供：参见 [BUILD-IPA.md](BUILD-IPA.md)。可推送至 G
 | --- | --- |
 | 原生扩展 | `UIInputViewController`，标准地球键与系统键盘选择菜单 |
 | 玻璃 | iOS 26 原生 `UIGlassEffect`；iOS 18–25 系统材质；清透 / 柔雾 / 纯净、浓度；系统取色器、HEX 和键盘 RGB 滑杆，预设色作为快捷入口 |
-| 中文输入 | 65,137 个词条，全拼、前缀补全、简拼、显式拼音分隔、基础词句组合、局部选词后继续输入 |
+| 中文输入 | 拼音在宿主标记、候选在键盘顶部；65,137 个词条，全拼、前缀补全、简拼、显式拼音分隔、基础词句组合、局部选词后继续输入 |
 | 英文输入 | 50,000 个词条，前缀补全、有限常用续词、大小写继承、句首大写 |
 | 模糊音 | z/zh、c/ch、s/sh、n/l、f/h、an/ang、en/eng、in/ing；按组开关、最多 12 个变体 |
 | 预测 | 中文词条前缀续词；英文有限常用搭配；可关闭续词 |
 | 选词学习 | 默认关闭；本地已选词计数，最多 512 条；延后写入；清除后旧进程不会回写被清除数据 |
 | 单手 | 左 / 右 / 标准；工具栏随键盘靠边；侧栏换手、调整尺寸、一键恢复；宽度 68%–88% |
 | 编辑 | 双击 Shift 锁定大写、长按删除连续删除、长按空格进入光标移动模式；左右滑动、松手不插入空格 |
-| 工具栏 | 最多三个快捷工具；在键盘内增删、拖动排序；所有模式共用设置，中英切换始终在品牌工具面板可用 |
-| 剪贴板 | 用户主动读取；最多 20 条、每条 2,000 字、最多固定 10 条；未固定内容到期清理 |
+| 工具栏 | 最多三个快捷工具；在键盘内增删、拖动排序；所有模式共用设置，中 / EN 常驻空格旁，一键切换 |
+| 剪贴板 | 自动收录复制变更及激活时的当前内容；可关闭；7 天 / 永久等保留时间；最多 200 条、每条 2,000 字、最多固定 10 条 |
 | 表情 | Unicode Emoji、颜文字、内置文字贴纸；图片贴纸点按复制后在消息框粘贴 |
 | 回车 | 跟随宿主的回车类型显示标签；有拼音先确认，再输入回车字符 |
 | 隐私 | 无账号、广告、网络请求、遥测；不保存原始按键或整段输入；附隐私清单及词库许可 |
@@ -77,7 +79,7 @@ bash Scripts/verify-macos.sh
 - 每次请求带代号并取消旧任务；旧候选在刷新时暂时禁用，旧结果不能覆盖新拼音。
 - 空格快速上屏使用当前代号匹配的候选，必要时执行有界索引查询，避免选中上一个拼音的词。
 - 词库为约 13.7 MiB 的只读二进制索引，使用 `Data.mappedIfSafe`，不展开整棵字典树。
-- iOS 26 按键使用独立原生玻璃表面，通过一个 UIGlassContainerEffect 容器统一合成；工具栏使用独立圆形按钮。输入时不重建全部按键或材质。此方案的实际 GPU 开销仍需真机测量。
+- iOS 26 按键使用独立原生玻璃表面，通过一个 UIGlassContainerEffect 容器统一合成；工具栏使用缓存的彩色图标。输入时不重建全部按键或材质。此方案的实际 GPU 开销仍需真机测量。
 - 不使用常驻刷新循环、后台剪贴板轮询或逐帧玻璃动画。删除计时器仅在长按期间运行并在隐藏时停止。
 - 低电量、减少透明度、纯净材质时关闭背景玻璃。无动画也自然适应减少动态效果的需求。
 - 本地选词写入合并并延迟执行。日志仅记录动作耗时区间，不写入用户文本。
@@ -132,3 +134,5 @@ Licenses/             第三方词库许可与修改声明
 ## 接下来的开发顺序
 
 先完成签名与 iPhone 安装，再检查宿主兼容性并测量性能和能耗。随后针对真实语料强化拼音切分、模糊音组合、错拼纠正、英文纠错和上下文排序；最后补充可导入词库与贴纸包、iPad 适配和上架准备。当前不是已验证可上架的完成版。
+
+公开接口参考：[标记拼音](https://developer.apple.com/documentation/uikit/uitextdocumentproxy)、[剪贴板变更通知](https://developer.apple.com/documentation/uikit/uipasteboard/changednotification)、[剪贴板读取提示](https://developer.apple.com/documentation/uikit/uipasteboard)。

diff --git a/Validation/STATUS.md b/Validation/STATUS.md
@@ -1,32 +1,28 @@
-# 验证状态 · 0.1.2（3）· 2026-10-17
+# 验证状态 · 0.1.3（4）· 2026-10-17
 
-## GitHub / Xcode
+主 App 和键盘扩展均通过 Xcode 26.6（17F113）的 Release arm64 iPhone 目标编译，SDK 为 iPhoneOS 26.5，最低 iOS 18.0。36 项核心 XCTest 全部通过。[云构建](https://github.com/gby2416341129-star/ClearKeyboard/actions/runs/39010537002)，被验证的原生源码提交 `8d83a8912d739ce9e76dfca15659c5cfe02d8473`。
 
-主 App 和键盘扩展均通过 Xcode 26.6（17F113）的 Release arm64 iPhone 目标编译；使用 iPhoneOS 26.5 SDK，最低系统 iOS 18.0。33 个 Swift 核心 XCTest 全部通过。[构建记录](https://github.com/gby2416341129-star/ClearKeyboard/actions/runs/38997390063)，源码提交 `7f5c6b54ad66b0f9794853e07bd822886de13326`。
+## 原生运行
 
-在 iPhone 17 Pro / iOS 26.5 模拟器中，8 项原生 XCTest 全部通过：
+iPhone 17 Pro / iOS 26.5 模拟器的 11 项 XCTest 全部通过，覆盖：
 
-- 初次布局为零或极小尺寸时，按键视图没有无限或空矩形坐标。
-- 键盘控制器在尚未连接宿主时可加载、布局、接收生命周期回调，公开 Objective-C 主类名可解析。
-- App 内按键输入 `nihao` 能显示有实际宽高的「你好」候选；空格上屏；英文 `hell` 能补全并输入 `hello `。
-- 重复的选区通知不会清空拼音，普通 SwiftUI 更新不会重置当前中英文语言。
-- UITextView 编辑回调进入同一套中文输入引擎。
-- 左右单手模式均可更改工具栏顺序，保留换手、尺寸调整和全尺寸侧栏。
-- 固定高度体验区出现候选时，底排按键完整可见。
-- 首页浅色与深色截图、安全区检查通过。
+- 宿主 UITextView 输入框显示 `nihao` 标记文本，键盘显示「你好」，空格或选词替换拼音并结束标记。
+- 已选文字被拼音替换，删除和清除拼音不破坏前后文字、组合 Emoji；英文补全正确替换前缀。
+- 空格旁的语言键直接切换中英文；普通 SwiftUI 刷新和重复选区通知不重置输入状态。
+- 四排按键在 180、216、240、280 pt 区域内完整布局，标准、左手、右手以及超大圆角父容器均检查。
+- 自动剪贴板通过注入的复制源测试激活捕获、变更通知、去重、权限关闭、自动收录关闭和恢复后的当前内容读取。
+- 左右手工具栏更改、排序和侧栏，首页浅色深色安全区，零尺寸按键与连接宿主前的控制器启动。
 
-截图保存在 `NativeScreenshots/`，测试摘要见 `native-runtime.json`。截图来自原生 UIKit / SwiftUI 窗口；不包含由系统进程绘制的状态栏。
+原生截图见 `NativeScreenshots/`，测试摘要见 `native-runtime.json`。截图为真实 UIKit / SwiftUI 窗口；没有系统进程绘制的状态栏。`compressed-host.png` 是限定高度的键盘视图，不是微信截图。
 
-## Windows 本地
+## 本地检查与交付
 
-25 个 Swift 文件通过语法解析；完整词库、属性清单、权限文件和 Xcode 工程引用检查通过。工程有 135 个对象。预览的 12 项交互检查通过，包括工具栏增删与拖动排序、左右手切换、候选输入、颜色和 400 px 响应式布局。
+27 个 Swift 文件通过语法解析，143 个 Xcode 工程对象及完整词库、元数据、权限和隐私清单检查通过。网页预览的 15 项交互检查通过；只证明设计预览，不能替代原生测试。
 
-IPA 在云端及下载后分别完成 ZIP 完整性、元数据、扩展注册、执行权限、arm64 iOS 真机平台、两套词库和隐私清单检查，结果一致。Artifact、IPA、校验文件和检查报告的 SHA-256 核对一致。扩展元数据的主类名与二进制中的公开 Objective-C 类名一致。
+IPA 云端检查与本地下载后的 ZIP、元数据、两个 arm64 iOS 可执行文件、执行权限、键盘扩展注册、词库、隐私清单检查一致。IPA 和 Artifact 的 SHA-256 与云端记录一致。
 
-## 崩溃修正与验证范围
+## 尚未覆盖
 
-原生测试重现了 `KeyboardViewController.viewDidLoad()` 读取空文档 ID 时发生的 `UUID._unconditionallyBridgeFromObjectiveC` / SIGTRAP。现在通过同一个公开属性的 Objective-C getter 保留空值，回归检查通过。同时修正了零尺寸按键底板的无效几何。
+IPA 未签名，需同时签名主 App 和键盘扩展，且保持匹配的 App Group。未对本次新包进行物理 iPhone 安装或微信 / 搜索跨进程输入测试；模拟器控制器启动测试刻意覆盖尚未连接远程代理的状态。系统粘贴许可对话框、手指拖动、发送消息行为、真机内存、延迟、耗电、VoiceOver 和动态字体仍需设备验收。
 
-初始化测试刻意覆盖尚未建立远程连接的状态；不模拟已安装键盘与第三方 App 的跨进程连接。App 内候选与编辑另由真实 UIKit 控件测试。
-
-交付 IPA 未签名。尚未完成本次新包在 iPhone 上的重新签名、安装和实际切换验证，也未测量真机延迟、耗电或内存峰值。微信等宿主的回车发送行为、VoiceOver 和动态字体仍待真机检查。
+iOS 不允许本项目在 App 和扩展都暂停时持续收集复制历史。自动收录依赖完全访问、系统粘贴许可和界面活动；下一次激活只能收录当时的最新内容。永久保留无时间过期，仍遵守 200 条容量上限。

diff --git a/BUILD-IPA.md b/BUILD-IPA.md
@@ -1,6 +1,6 @@
 # 生成 iPhone IPA
 
-**已生成 0.1.2（3）未签名 IPA。** [GitHub 云构建](https://github.com/gby2416341129-star/ClearKeyboard/actions/runs/38997390063) 使用 Xcode 26.6，已通过 33 项核心测试、主 App 和键盘扩展的 Release arm64 iPhone 目标编译、IPA 包检查与 8 项原生运行测试。具体交付版本的记录见 `Validation/native-build.json`；安装前仍需签名。
+**已生成 0.1.3（4）未签名 IPA。** [GitHub 云构建](https://github.com/gby2416341129-star/ClearKeyboard/actions/runs/39010537002) 使用 Xcode 26.6，已通过 36 项核心测试、主 App 和键盘扩展的 Release arm64 iPhone 目标编译、IPA 包检查与 11 项原生运行测试。具体交付版本的记录见 `Validation/native-build.json`；安装前仍需签名。
 
 ## GitHub 云构建
 
